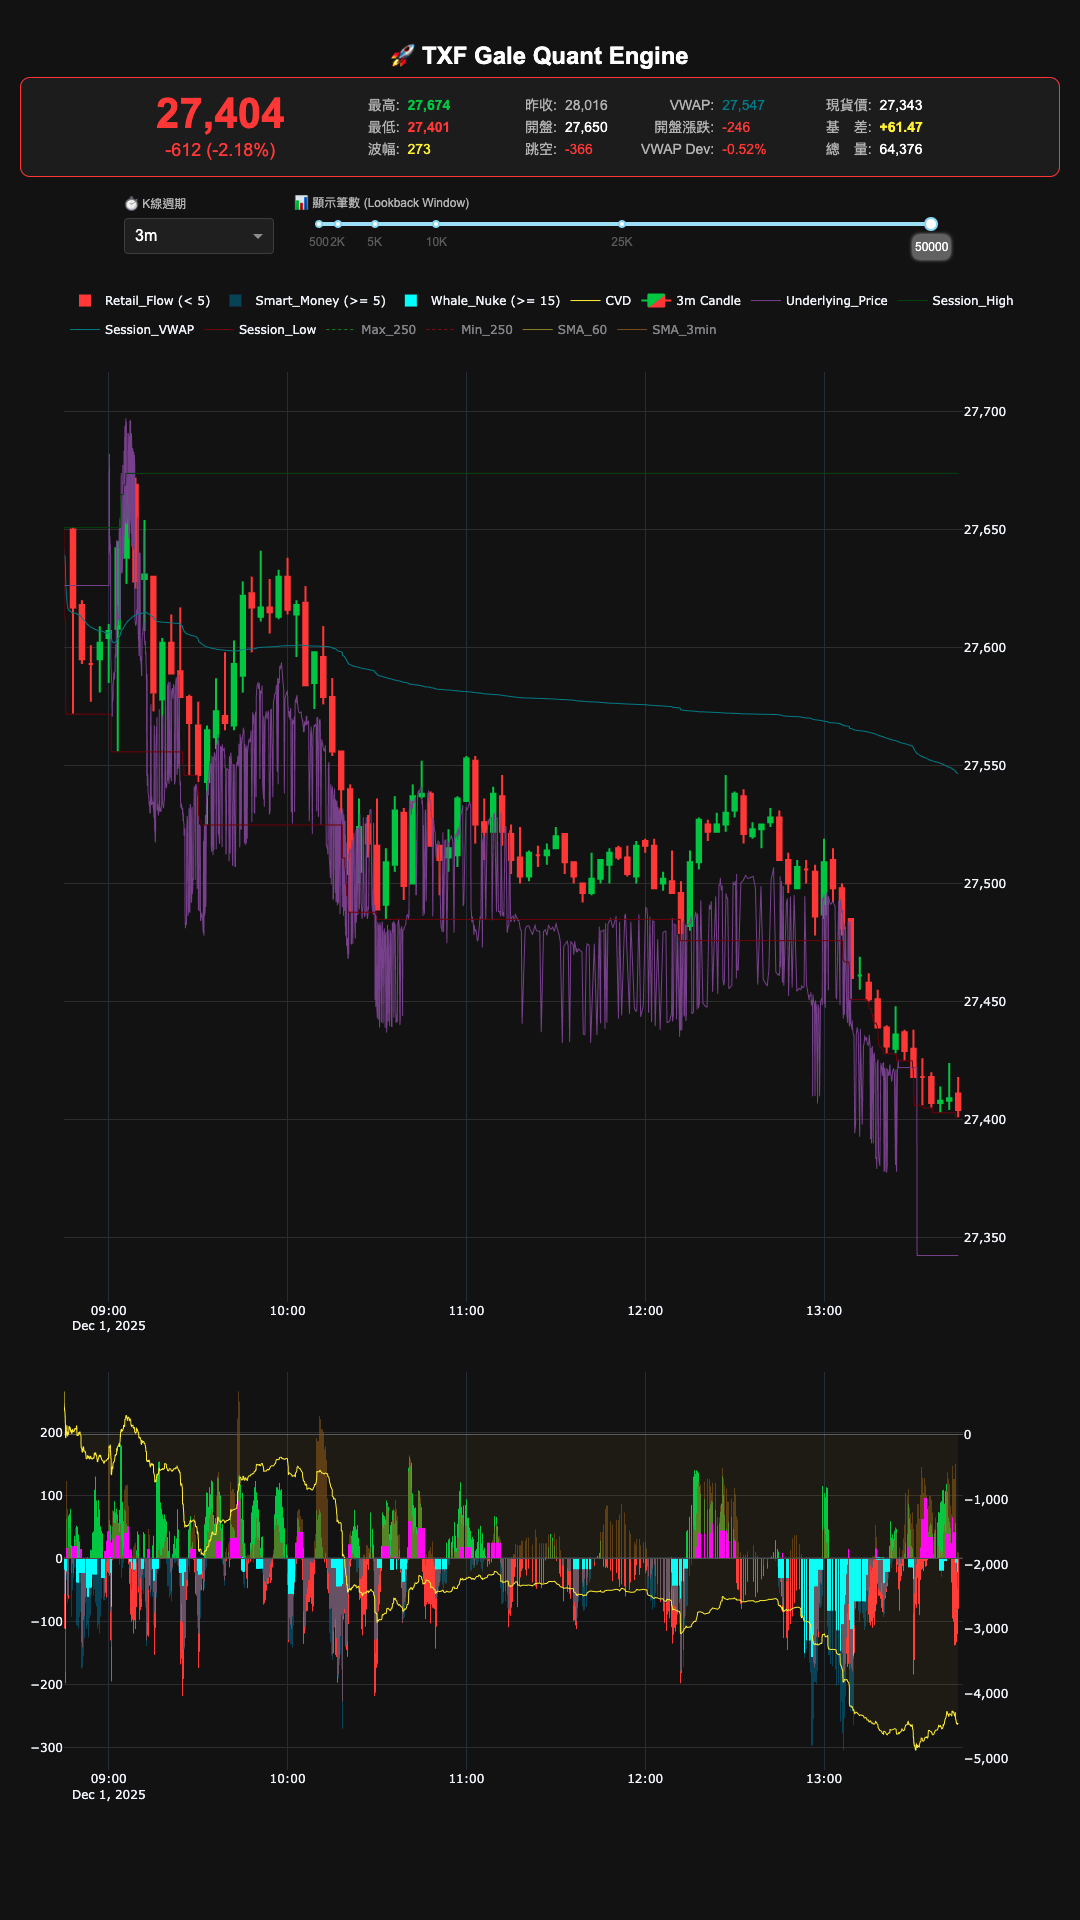
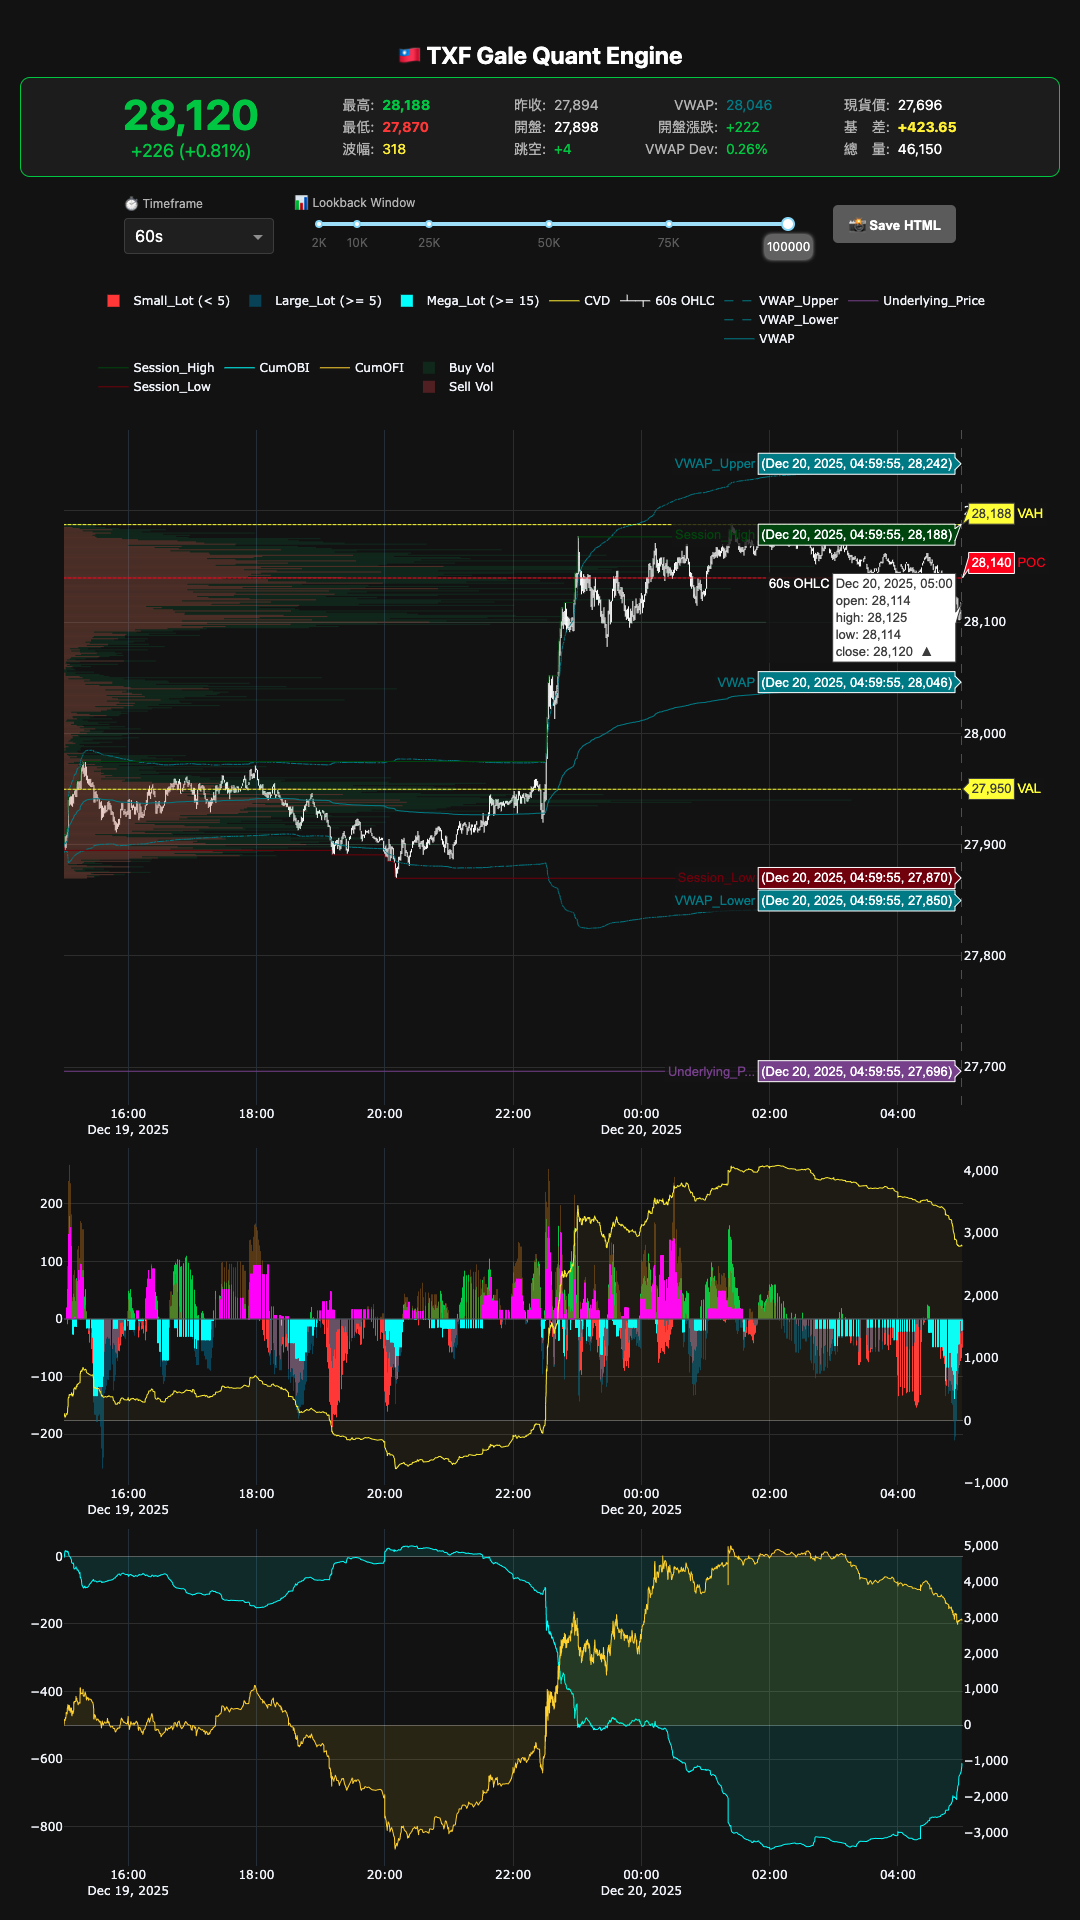
Update pics

diff --git a/README.md b/README.md
@@ -37,8 +37,9 @@
 
 ---
 
-## 進階版（運用相同技術但可以做得更細膩）
+## 進階版
 ![6](docs/6.png)
+![7](docs/7.png)
 
 ---
 
